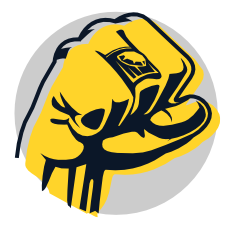
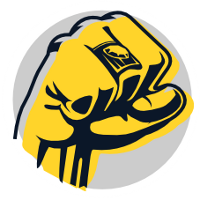
Fixed images style

diff --git a/public/stylesheets/confy.css b/public/stylesheets/confy.css
@@ -101,9 +101,14 @@ a:focus {
   margin-bottom: 0.2em;
 }
 .conference-logo {
-  border-radius: 50px;
+  height: 150px;
+  width: 150px;
+  border-radius: 80px;
+  border-style: solid;
+  border-width: thin;
   display: inline-block;
   float: left;
+  margin-right: 1em;
 }
 .conference-logo img{
   border-radius: 80px;
